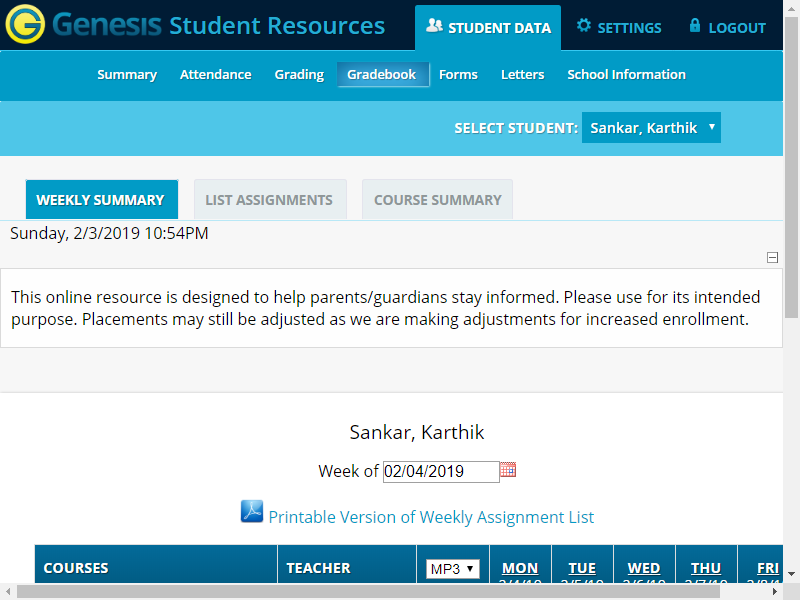
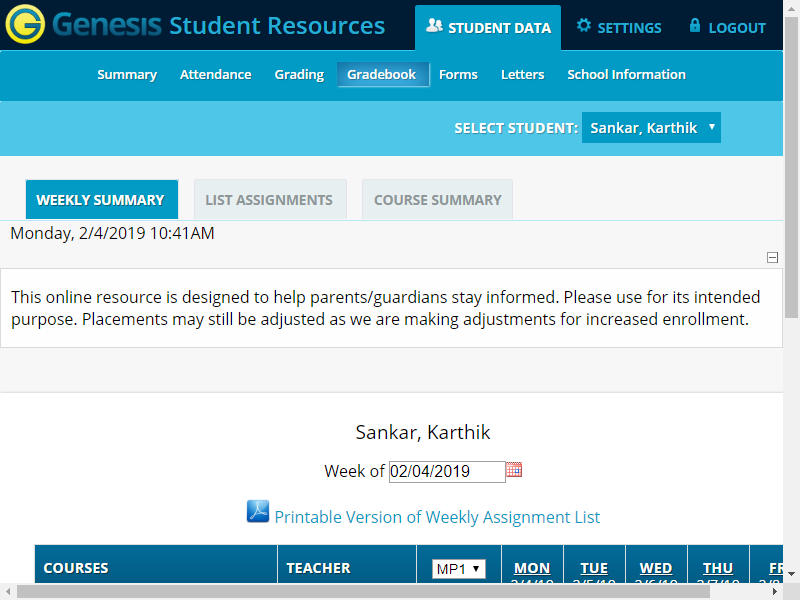
test

diff --git a/puppet.js b/puppet.js
@@ -28,10 +28,18 @@ function func(){
     await page.goto(url, {waitUntil: 'networkidle2'});
     await page.goto(url2, {waitUntil: 'networkidle2'});
     await page.evaluate(text => [...document.querySelectorAll('*')].find(e => e.textContent.trim() === text).click(), "Gradebook");
+	await page.waitForNavigation({ waitUntil: 'networkidle2' })
+
+	await page.evaluate(() => switchMarkingPeriod("MP1"));
+    await page.waitForNavigation({ waitUntil: 'networkidle2' })
+	console.log(await page.evaluate(text => console.log(document.getElementsByName("fldMarkingPeriod")[0].text())));
+
+	await page.evaluate(() => switchMarkingPeriod("MP1"));
     await page.waitForNavigation({ waitUntil: 'networkidle2' })
     const html = await page.content();
+	
     await page.screenshot({path: 'examples.png'});
-
+	var grades = {}
     await $('.list', html).find("tbody").each(function() {
         console.log($(this).find(".categorytab").text());
     });
